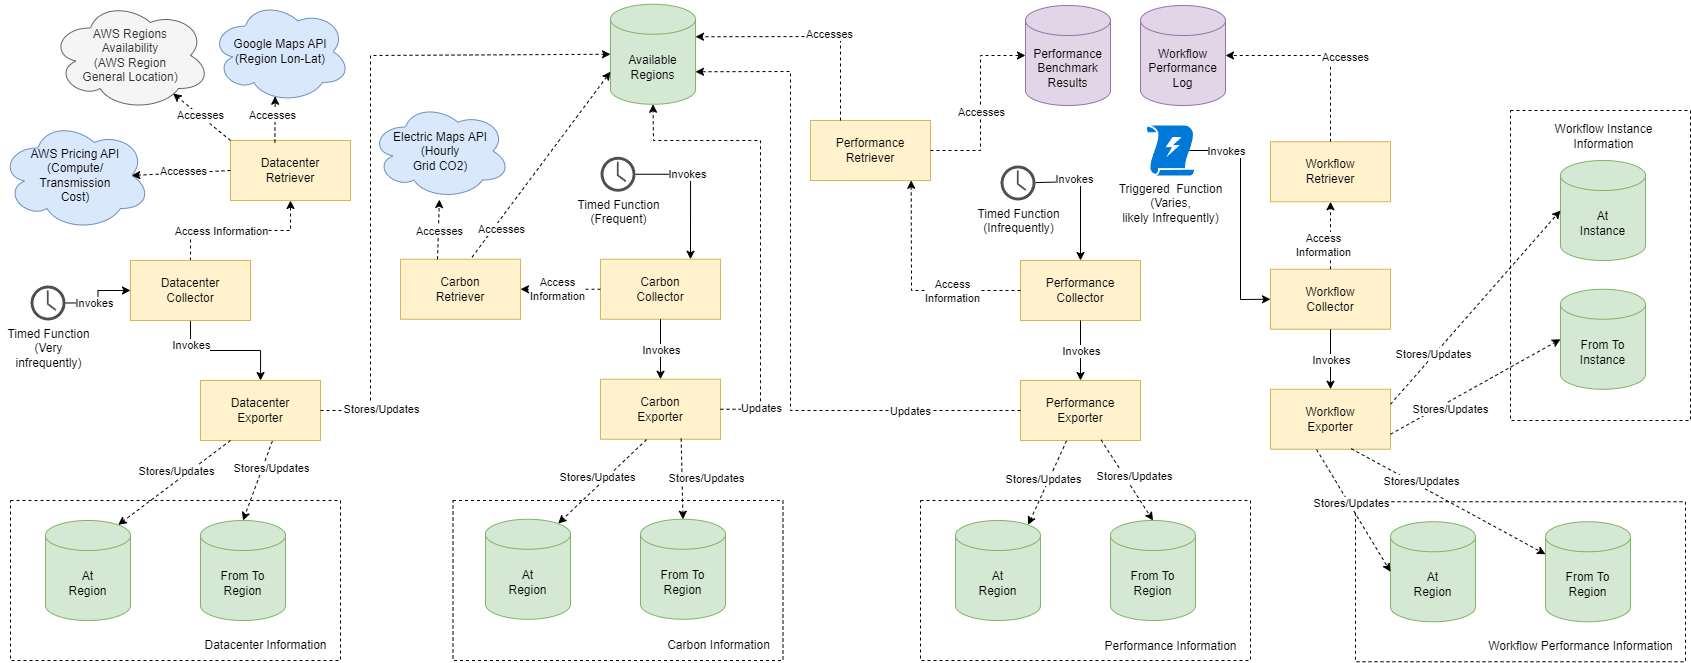
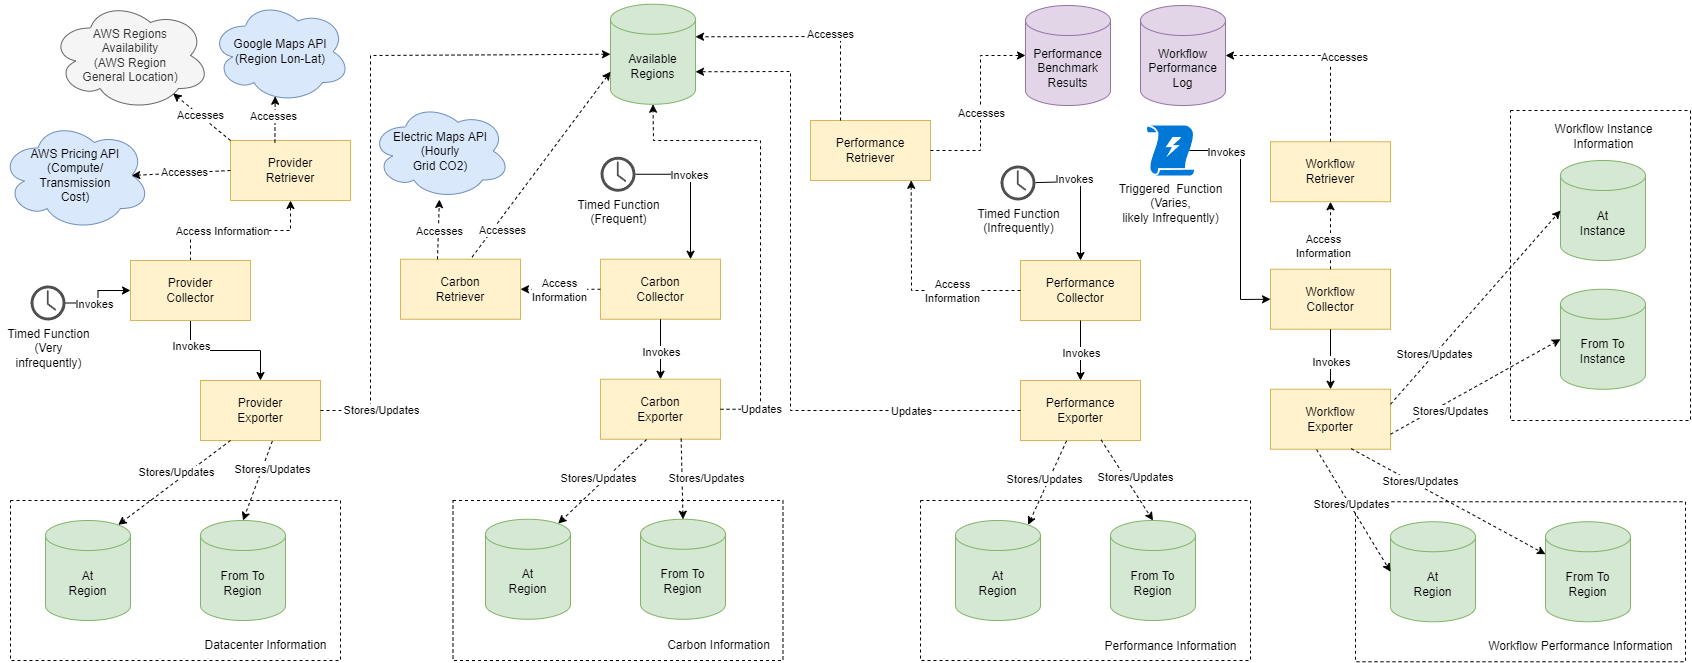
Base structures.

diff --git a/multi_x_serverless/data_collector/components/data_exporter.py b/multi_x_serverless/data_collector/components/data_exporter.py
@@ -6,20 +6,42 @@ from multi_x_serverless.deployment.common.remote_client.remote_client import Rem
 
 class DataExporter(ABC):
     _client: RemoteClient
-    _at_data_table: str
-    _from_to_data_table: str
+    _at_region_table: str
+    _from_to_region_table: str
 
-    def __init__(self, at_data_table: str, from_to_data_table: str, client: RemoteClient) -> None:
-        self._at_data_table = at_data_table
-        self._from_to_data_table = from_to_data_table
+    def __init__(self, at_region_table: str, from_to_region_table: str, client: RemoteClient) -> None:
+        self._at_region_table = at_region_table
+        self._from_to_region_table = from_to_region_table
         self._client = client
 
     @abstractmethod
-    def export_data(self) -> bool:
+    def export_all_data(self, *args: Any, **kwargs: Any) -> bool:
+        raise NotImplementedError
+    
+    def _export_data(self, at_table_name: str, at_data: dict[str, Any], from_to_table_name: str, from_to_data: dict[tuple[str, str], Any]) -> bool:
         """
-        Exports the processed data from the data source
+        Exports all the processed data to all appropriate tables.
+        """
+        success = True
+        success &= self._export_at_data(at_table_name, at_data)
+        success &= self._export_from_to_data(from_to_table_name, from_to_data)
+        return success
+    
+    def _export_at_data(self, table_name: str, at_data: dict[str, Any]) -> bool:
+        """
+        Exports the "at" resource data from processed data.
         """
         # data_json = json.dumps(data)
         # self._data_collector_client.set_value_in_table(self._data_table, self._table_key, data_json)
-
-        return False
+        
+        pass # Should be implemented here
+    
+    # @abstractmethod
+    def _export_from_to_data(self, table_name: str, from_to_data: dict[tuple[str, str], Any]) -> bool:
+        """
+        Exports the "from_to" resource data from processed data.
+        """
+        # data_json = json.dumps(data)
+        # self._data_collector_client.set_value_in_table(self._data_table, self._table_key, data_json)
+        
+        pass # Should be implemented here

diff --git a/multi_x_serverless/data_collector/components/carbon/carbon_retriever.py b/multi_x_serverless/data_collector/components/carbon/carbon_retriever.py
@@ -1,23 +1,15 @@
-# import json
-# from abc import ABC, abstractmethod
-# from typing import Any, Optional
-
 # from multi_x_serverless.common.constants import DATA_COLLECTOR_DATA_TABLE
 # from multi_x_serverless.common.models.endpoints import Endpoints
 # from multi_x_serverless.deployment.common.remote_client.remote_client import RemoteClient
 
-# class DataRetriever(ABC):
-#     _data_table: str
+from typing import Any
 
-#     def __init__(self, client: RemoteClient) -> None:
-#         self._data_collector_client = client
+from multi_x_serverless.data_collector.components.data_retriever import DataRetriever
 
-#     @abstractmethod
-#     def collect_data(self) -> dict[str, Any]:
-#         """
-#         Collects data from the data source
+class CarbonRetriever(DataRetriever):
+    def __init__(self) -> None:
+        # TODO (#50): Fill Data Retriever Implementations
+        pass
 
-#         Returns:
-#             Dict[str, Any]: data collected from the data source
-#         """
-#         pass
+# To view Old legacy code:
+# https://github.com/ubc-cirrus-lab/multi-x-serverless/pull/5 -> multi_x_serverless/routing/data_gatherers/carbon

diff --git a/multi_x_serverless/data_collector/components/workflow/workflow_exporter.py b/multi_x_serverless/data_collector/components/workflow/workflow_exporter.py
@@ -1,0 +1,15 @@
+from multi_x_serverless.data_collector.components.data_exporter import DataExporter
+from multi_x_serverless.deployment.common.remote_client.remote_client import RemoteClient
+
+from typing import Any
+
+class WorkflowExporter(DataExporter):
+    _at_instance_table: str
+    _from_to_instance_table: str
+
+    def __init__(self, at_region_table: str, from_to_region_table: str, client: RemoteClient) -> None:
+        super().__init__(at_region_table, from_to_region_table, client)
+
+    def export_all_data(self, at_region_data: dict[str, Any], from_to_region_data: dict[tuple[str, str], Any], at_instance_data: dict[str, Any], from_to_instance_data: dict[tuple[str, str], Any]) -> bool:
+        return self._export_data(self._at_region_table, at_region_data, self._from_to_region_table, from_to_region_data) and self._export_data(self._at_instance_table, at_instance_data, self._from_to_instance_table, from_to_instance_data)
+    

diff --git a/multi_x_serverless/data_collector/components/provider/provider_retriever.py b/multi_x_serverless/data_collector/components/provider/provider_retriever.py
@@ -1,0 +1,17 @@
+from typing import Any
+
+from multi_x_serverless.data_collector.components.data_retriever import DataRetriever
+
+class ProviderRetriever(DataRetriever):
+    def __init__(self) -> None:
+        # TODO (#50): Fill Data Retriever Implementations
+        pass
+
+
+
+# Maybe use this to determine AWS region - 
+# https://docs.aws.amazon.com/AWSEC2/latest/UserGuide/using-regions-availability-zones.html#concepts-availability-zones
+# Can use /aws/service/global-infrastructure/regions/region-code/longName to get region name
+    
+# To view Old legacy code:
+# https://github.com/ubc-cirrus-lab/multi-x-serverless/pull/5 -> multi_x_serverless/routing/data_gatherers/cost/datacenter_information

diff --git a/multi_x_serverless/data_collector/components/performance/performance_exporter.py b/multi_x_serverless/data_collector/components/performance/performance_exporter.py
@@ -1,0 +1,11 @@
+from multi_x_serverless.data_collector.components.data_exporter import DataExporter
+from multi_x_serverless.deployment.common.remote_client.remote_client import RemoteClient
+
+from typing import Any
+
+class PerformanceExporter(DataExporter):
+    def __init__(self, at_region_table: str, from_to_region_table: str, client: RemoteClient) -> None:
+        super().__init__(at_region_table, from_to_region_table, client)
+
+    def export_all_data(self, at_region_data: dict[str, Any], from_to_region_data: dict[tuple[str, str], Any]) -> bool:
+        return self._export_data(self._at_region_table, at_region_data, self._from_to_region_table, from_to_region_data)

diff --git a/multi_x_serverless/data_collector/components/provider/provider_exporter.py b/multi_x_serverless/data_collector/components/provider/provider_exporter.py
@@ -1,0 +1,11 @@
+from multi_x_serverless.data_collector.components.data_exporter import DataExporter
+from multi_x_serverless.deployment.common.remote_client.remote_client import RemoteClient
+
+from typing import Any
+
+class ProviderExporter(DataExporter):
+    def __init__(self, at_region_table: str, from_to_region_table: str, client: RemoteClient) -> None:
+        super().__init__(at_region_table, from_to_region_table, client)
+
+    def export_all_data(self, at_region_data: dict[str, Any], from_to_region_data: dict[tuple[str, str], Any]) -> bool:
+        return self._export_data(self._at_region_table, at_region_data, self._from_to_region_table, from_to_region_data)

diff --git a/multi_x_serverless/data_collector/components/carbon/carbon_exporter.py b/multi_x_serverless/data_collector/components/carbon/carbon_exporter.py
@@ -1,0 +1,11 @@
+from multi_x_serverless.data_collector.components.data_exporter import DataExporter
+from multi_x_serverless.deployment.common.remote_client.remote_client import RemoteClient
+
+from typing import Any
+
+class CarbonExporter(DataExporter):
+    def __init__(self, at_region_table: str, from_to_region_table: str, client: RemoteClient) -> None:
+        super().__init__(at_region_table, from_to_region_table, client)
+
+    def export_all_data(self, at_region_data: dict[str, Any], from_to_region_data: dict[tuple[str, str], Any]) -> bool:
+        return self._export_data(self._at_region_table, at_region_data, self._from_to_region_table, from_to_region_data)

diff --git a/multi_x_serverless/data_collector/components/performance/performance_retriever.py b/multi_x_serverless/data_collector/components/performance/performance_retriever.py
@@ -1,0 +1,13 @@
+from typing import Any
+
+from multi_x_serverless.data_collector.components.data_retriever import DataRetriever
+
+class PerformanceRetriever(DataRetriever):
+    def __init__(self) -> None:
+        # TODO (#50): Fill Data Retriever Implementations
+        pass
+
+
+# To view Old legacy code:
+# https://github.com/ubc-cirrus-lab/multi-x-serverless/pull/5 -> multi_x_serverless/routing/data_gatherers/runtime
+# Similar but not quite

diff --git a/multi_x_serverless/data_collector/components/data_retriever.py b/multi_x_serverless/data_collector/components/data_retriever.py
@@ -3,11 +3,5 @@ from typing import Any
 
 class DataRetriever(ABC):
     @abstractmethod
-    def collect_data(self) -> dict[str, Any]:
-        """
-        Collects data from the data source
-
-        Returns:
-            Dict[str, Any]: data collected from the data source
-        """
-        pass
+    def __init__(self, *args: Any, **kwargs: Any) -> None:
+        raise NotImplementedError

diff --git a/multi_x_serverless/data_collector/provider_collector.py b/multi_x_serverless/data_collector/provider_collector.py
@@ -1,8 +1,6 @@
 from typing import Any
-from multi_x_serverless.data_collector.components.carbon.carbon_exporter import CarbonExporter
-from multi_x_serverless.data_collector.data_collector import DataCollector
 
-class CarbonCollector(DataCollector):
+class ProviderCollector(DataCollector):
     def __init__(self) -> None:
         super().__init__()
         self._table_key = "carbon_data"

diff --git a/multi_x_serverless/data_collector/workflow_collector.py b/multi_x_serverless/data_collector/workflow_collector.py
@@ -2,7 +2,7 @@ from typing import Any
 from multi_x_serverless.data_collector.components.carbon.carbon_exporter import CarbonExporter
 from multi_x_serverless.data_collector.data_collector import DataCollector
 
-class CarbonCollector(DataCollector):
+class WorkflowCollector(DataCollector):
     def __init__(self) -> None:
         super().__init__()
         self._table_key = "carbon_data"

diff --git a/multi_x_serverless/data_collector/components/workflow/workflow_retriever.py b/multi_x_serverless/data_collector/components/workflow/workflow_retriever.py
@@ -1,0 +1,12 @@
+from typing import Any
+
+from multi_x_serverless.data_collector.components.data_retriever import DataRetriever
+
+class WorkflowRetriever(DataRetriever):
+    def __init__(self) -> None:
+        # TODO (#50): Fill Data Retriever Implementations
+        pass
+
+
+
+# No associated legacy code
